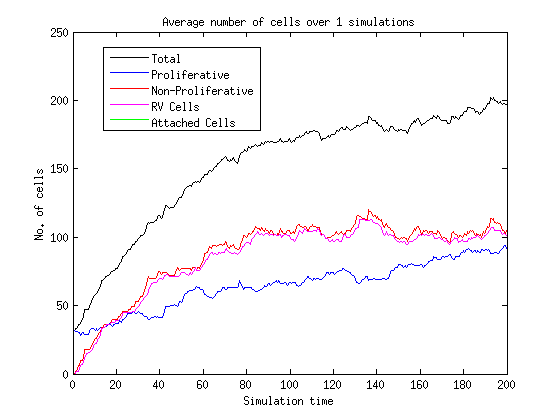
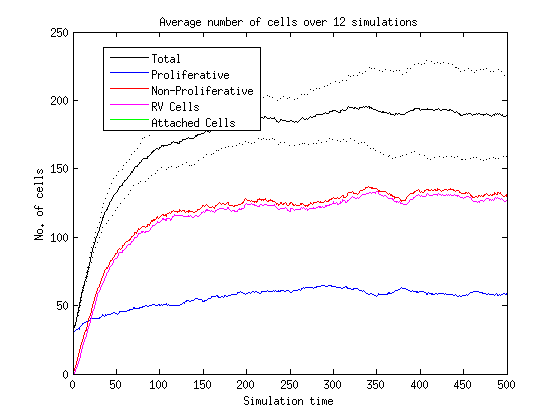
finished steady state analysis script thingy

diff --git a/MATLAB/ViewUtBudDataFunctions/meanscellsvstime_s.m b/MATLAB/ViewUtBudDataFunctions/meanscellsvstime_s.m
@@ -1,0 +1,182 @@
+function meanscellsvstime_s(PopulationDataSet)
+% Function that takes in population data (celltypescount.dat) and produces
+% plots of average cell numbers vs time.
+
+fontopt = {'FontSize',50,'FontWeight','bold'};
+
+PopulationData = PopulationDataSet{1};
+[~, TotalJobs] = size(PopulationDataSet);
+
+TotalCells_Sum1 = PopulationData(:,3) + PopulationData(:,2);
+TotalCells_Sum2 = (PopulationData(:,3) + PopulationData(:,2)).^2;
+
+Sum1 = PopulationData;
+Sum2 = PopulationData.^2;
+
+for k = 2:TotalJobs
+    PopulationData = PopulationDataSet{k};
+    
+    TotalCells_Sum1 = TotalCells_Sum1 + PopulationData(:,3) + PopulationData(:,2);
+    TotalCells_Sum2 = TotalCells_Sum2 + (PopulationData(:,3) + PopulationData(:,2)).^2;
+    
+    Sum1 = Sum1 + PopulationData;
+    Sum2 = Sum2 + PopulationData.^2;
+    
+end
+
+MeanPopulationData = Sum1/TotalJobs;
+%VarPopulationData = (TotalJobs*Sum2 - Sum1.^2)/(TotalJobs*(TotalJobs-1));
+
+SimTime = MeanPopulationData(:,1);
+DiffCells = MeanPopulationData(:,3);
+TransitCells = MeanPopulationData(:,2);
+TotalCells = MeanPopulationData(:,3) + MeanPopulationData(:,2);
+
+AttachedCells = MeanPopulationData(:,5);
+RVCells = MeanPopulationData(:,6);
+
+TotalCellsStd = sqrt((TotalJobs*TotalCells_Sum2 - TotalCells_Sum1.^2)/(TotalJobs*(TotalJobs-1)));
+
+% figure('units', 'normalized', 'position', [.3 .3 0.12 0.24]);
+figure;
+
+plot(SimTime, TotalCells, 'k',...
+     SimTime, TransitCells, 'b',...
+     SimTime, DiffCells, 'r',...
+     SimTime, RVCells, 'm',...
+     SimTime, AttachedCells, 'g',...
+     SimTime, TotalCells + TotalCellsStd, 'k:', ...
+     SimTime, TotalCells - TotalCellsStd, 'k:');
+
+legend('Total', 'Proliferative', 'Non-Proliferative',...
+    'RV Cells', 'Attached Cells', 'Location', 'Best');
+title(['Average number of cells over ', num2str(TotalJobs), ' simulations'], fontopt{:});
+xlabel('Simulation time'); ylabel('No. of cells');
+set(gcf,'PaperPositionMode','auto'); print('Fig01', '-dpng', '-r0');
+
+
+
+%% QD stationairty test (return time from finish when is total_pop is steady)
+% This function partitions the timeseries data into windows and compares
+% the sample statistics of neighbouring partitions. If the statstics agree
+% with 1-eps confidence, it is accepted as a window where the distribution
+% is stationary
+
+t = 100; % number of data points in each window
+eps = 0.1; % confidence interval
+
+PopulationData = PopulationDataSet{1};
+Sample1 = PopulationData(end-t+1:end, :);
+Sample2 = PopulationData(end-2*t+1:end-t, :);
+
+for k = 2:TotalJobs
+    PopulationData = PopulationDataSet{k};
+    Sample1 = [Sample1; PopulationData(end-t+1:end, :)];
+    Sample2 = [Sample2; PopulationData(end-2*t+1:end-t, :)];
+    
+end
+
+Stats1 = samplestats(Sample1(:,3) + Sample1(:,2));
+Stats2 = samplestats(Sample2(:,3) + Sample2(:,2));
+
+flag = 0;
+if sum(abs(Stats1 - Stats2) < eps*(Stats2 + Stats1)/2) == 4
+    flag = 1;
+end
+
+
+j = 2;
+while flag == 1
+    flag = 0;
+    
+    Sample1 = Sample2;
+    Stats1 = Stats2;
+    
+    Sample2 = PopulationData(end-(j+1)*t+1:end-j*t, :);
+    for k = 2:TotalJobs
+        PopulationData = PopulationDataSet{k};
+        Sample2 = [Sample2; PopulationData(end-3*t+1:end-2*t, :)];
+    end
+    Stats2 = samplestats(Sample2(:,3) + Sample2(:,2));
+    
+    
+    if sum(abs(Stats1 - Stats2) < eps*(Stats2 + Stats1)/2) == 4
+        flag = 1;
+        j = j+1;
+    end
+    
+end
+
+
+disp(['(QD) Total cells in Equilibrium from approx t = '...
+    num2str(PopulationData(end,1) - j*0.6*t)]);
+
+
+%% ADF test for stationarity
+
+% t = 200; % number of data points in each window
+% eps = 0.1; % confidence interval
+% 
+% PopulationData = PopulationDataSet{1};
+% Sample1 = PopulationData(end-t+1:end, :);
+% Sample2 = PopulationData(end-2*t+1:end-t, :);
+% 
+% h = adftest(Sample1(:,3) + Sample1(:,2));
+% disp(h)
+% pause
+% 
+% for k = 2:TotalJobs
+%     PopulationData = PopulationDataSet{k};
+%     Sample1 = [Sample1; PopulationData(end-t+1:end, :)];
+%     Sample2 = [Sample2; PopulationData(end-2*t+1:end-t, :)];
+%     
+% end
+% 
+% 
+% 
+% Stats1 = samplestats(Sample1(:,3) + Sample1(:,2));
+% Stats2 = samplestats(Sample2(:,3) + Sample2(:,2));
+% 
+% flag = 0;
+% if sum(abs(Stats1 - Stats2) < eps*(Stats2 + Stats1)/2) == 4
+%     flag = 1;
+% end
+% 
+% 
+% j = 2;
+% while flag == 1
+%     flag = 0;
+%     
+%     Sample1 = Sample2;
+%     Stats1 = Stats2;
+%     
+%     Sample2 = PopulationData(end-(j+1)*t+1:end-j*t, :);
+%     for k = 2:TotalJobs
+%         PopulationData = PopulationDataSet{k};
+%         Sample2 = [Sample2; PopulationData(end-3*t+1:end-2*t, :)];
+%     end
+%     Stats2 = samplestats(Sample2(:,3) + Sample2(:,2));
+%     
+%     
+%     if sum(abs(Stats1 - Stats2) < eps*(Stats2 + Stats1)/2) == 4
+%         flag = 1;
+%         j = j+1;
+%     end
+%     
+%     disp(j)
+%     
+% end
+% 
+% 
+% disp(['(ADF) Total cells in Equilibrium from approx t = '...
+%     num2str(PopulationData(end,1) - j*0.6*t)]);
+
+
+
+end
+
+
+
+function out = samplestats(A)
+out = [mean(A), std(A), min(A), max(A)];
+end

diff --git a/MATLAB/ViewUtBudData_s.m b/MATLAB/ViewUtBudData_s.m
@@ -1,0 +1,114 @@
+function ViewUtBudData(TotalJobs, BinSize_ux, BinSize_vx, BinSize_agex, BinSize_agey)
+% ViewUtBudData: Produces data plots for batch data from UtericBudSimulation
+%
+%   Inputs:
+%       TotalJobs = total number of sims, match 'num_sims' in .sh file.
+%       BinSize_ux = size of partition elements of x in 'Mean u vs x'
+%       BinSize_vx = size of partition elements of x in 'Mean v vs x'
+%       BinSize_agex = size of partition elements of x in 'Mean age vs x'
+%       BinSize_agey = size of partition elements of x in 'Mean age vs y'
+%       max_x = Right endpoint of largest partition element will be the
+%           first integer multiple after this
+%       max_y = Right endpoint of largest partition element will be the
+%           first integer multiple after this
+%
+%   Outputs:
+%       AvPopulationDataOut = cell containing plot data for 'Mean no.
+%           cells vs time', values as specified in plot code.
+%       AvHVelocityDataOut = cell containing plot data for 'Mean u vs x'.
+%       AvVVelocityDataOut = cell containing plot data for 'Mean v vs x'.
+%       AvHAgeDataOut = cell containing plot data for 'Mean age vs x'.
+%       AvVAgeDataOut = cell containing plot data for 'Mean age vs y'.
+%
+% Default Args : ViewUtBudData(5, 2, 2, 1, 1, 40, 10)
+%
+%% Add paths and set up
+
+close all;
+
+max_x = 20;
+max_y = 5;
+
+if nargin == 1
+    BinSize_ux = 0.5;
+    BinSize_vx = 0.5;
+    BinSize_agex = 0.5;
+    BinSize_agey = 0.5;
+end
+
+addpath(genpath('/home/blake/Workspace/Chaste/anim/'));
+addpath(genpath('testoutput/'));
+addpath(genpath('ViewUtBudDataFunctions/'));
+tic;
+
+%% Mean no. cells vs time
+% Plots time series of the population count by ProliferativeType
+
+PopulationDataSet = cell(1,TotalJobs);
+for k = 1:TotalJobs
+    temp = importdata(['testoutput_s/UtericBudSimulation_' num2str(k-1) ...
+        '/results_from_time_0/celltypescount.dat']);
+    PopulationDataSet{k} = temp.data;
+end
+
+meanscellsvstime_s(PopulationDataSet);
+
+
+% % Mean cap height vs t
+% Plots line graph of the average cap height in the simulation.
+% avg cap height calculated by partitioning x and averaging the max heing
+% in each partition element.
+% 
+% VelocitiesDataSet = cell(1,TotalJobs);
+% for k = 1:TotalJobs
+%     VelocitiesDataSet{k} = LoadNonConstantLengthData(['testoutput/' ...
+%         'UtericBudSimulation_' num2str(k-1) ...
+%         '/results_from_time_0/cellvelocities.dat']);
+% end
+% 
+% meancapheightvstime(VelocitiesDataSet);
+% 
+% 
+% % Mean u and v vs x
+% Plots bar graph of horizonal velocities averaged over a partition of x on
+% the last frame of the simulation.
+%   x = horizontal position
+%   u = velocity in x direction
+%   v = velocity in y direction
+% Size of partition elements specified by 'BinSize_ux' input.
+% Maximum x specified by 'max_x' input.
+% 
+% meanvelocityvsx(VelocitiesDataSet, BinSize_ux, BinSize_vx, max_x, max_y);
+% 
+% 
+% % Mean age vs x and y
+% Plots bar graph of cell ages averaged over a partition of x on
+% the last frame of the simulation.
+%   x = horizontal position
+%   y = vertical position
+%   age = age of cell
+% Size of partition elements specified by 'BinSize_agex' input.
+% Maximum x specified by 'max_x' input.
+% 
+% AgesDataSet = cell(1,TotalJobs);
+% for k = 1:TotalJobs
+%     AgesDataSet{k} = LoadNonConstantLengthData(['testoutput/' ...
+%         'UtericBudSimulation_' num2str(k-1) ...
+%         '/results_from_time_0/cellages.dat']);
+% end
+% 
+% meanagevsxy(AgesDataSet, BinSize_agex, BinSize_agey, max_x, max_y);
+% 
+% 
+% % Finish
+
+toc
+
+end
+
+
+
+
+
+
+
